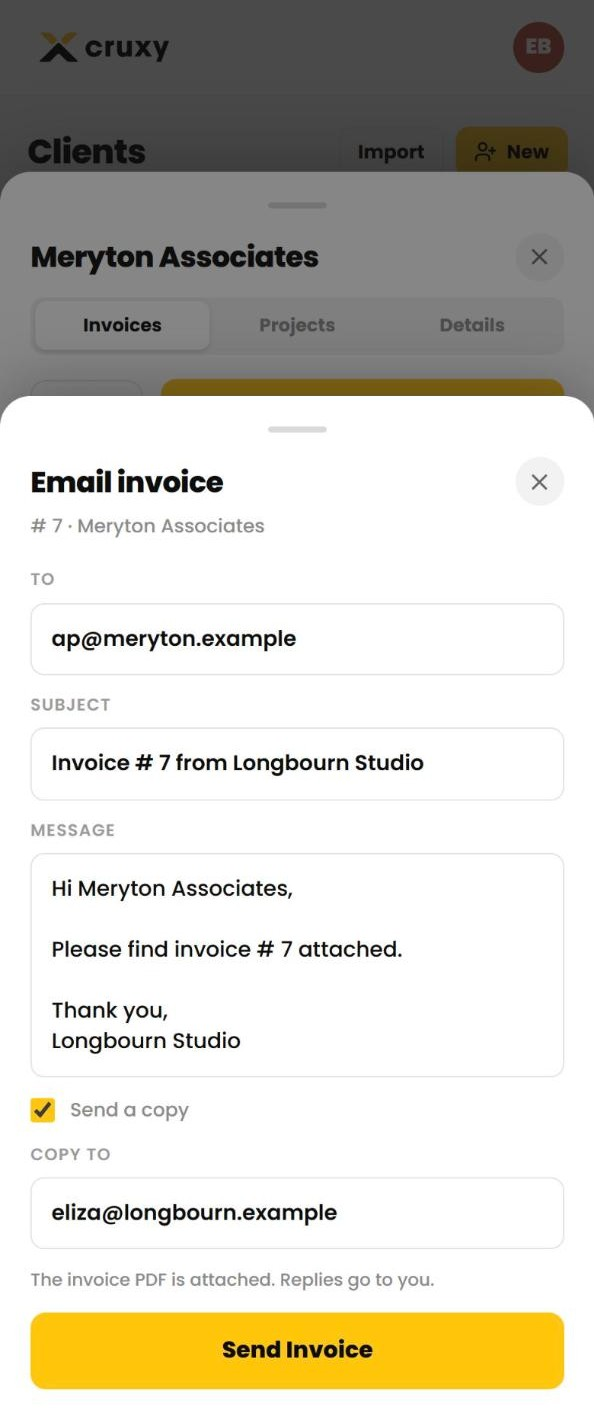
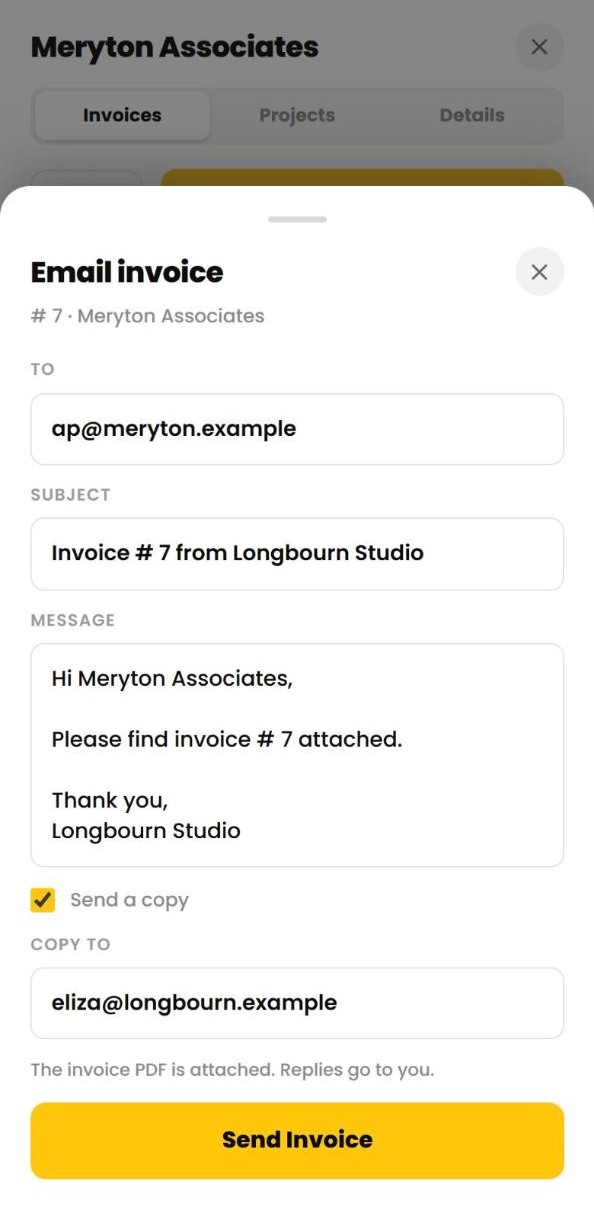
Invoices deep dive: modal-only shots, equal height, new headline
Claude-Session: https://claude.ai/code/session_01Qt5XacHTYuFQ2D38KkpYh8

diff --git a/css/style.css b/css/style.css
@@ -361,9 +361,8 @@ footer.site-footer { background: #0D0D0D; color: #fff; padding: 64px 24px 32px; 
 .deep-dive-points li::before { content: '✓'; position: absolute; left: 0; color: #FFC60B; font-weight: 700; }
 .deep-dive-points strong { color: #fff; font-weight: 700; }
 .deep-dive-shots { display: grid; grid-template-columns: repeat(3, 1fr); gap: 16px; align-items: start; }
-.dd-shot { width: 100%; height: auto; display: block; border-radius: 22px; box-shadow: 0 20px 44px rgba(0,0,0,0.55), 0 0 0 1px rgba(255,255,255,0.10); }
-.dd-shot-1 { margin-top: 56px; }
-.dd-shot-3 { margin-top: 28px; }
+.dd-shot-3 { box-shadow: 0 0 0 1px rgba(255,255,255,0.10); }
+.dd-shot { width: 100%; height: auto; display: block; border-radius: 22px; filter: drop-shadow(0 20px 36px rgba(0,0,0,0.55)); }
 @media (max-width: 900px) {
   .deep-dive { padding: 64px 24px; }
   .deep-dive-wrap { grid-template-columns: 1fr; gap: 40px; }
@@ -371,7 +370,5 @@ footer.site-footer { background: #0D0D0D; color: #fff; padding: 64px 24px 32px; 
 @media (max-width: 600px) {
   .deep-dive h2 { font-size: 1.75rem; }
   .deep-dive-shots { gap: 10px; }
-  .dd-shot { width: 100%; height: auto; display: block; border-radius: 22px; box-shadow: 0 20px 44px rgba(0,0,0,0.55), 0 0 0 1px rgba(255,255,255,0.10); }
-  .dd-shot-1 { margin-top: 64px; }
-  .dd-shot-3 { margin-top: 32px; }
-}
+  .dd-shot { width: 100%; height: auto; display: block; border-radius: 22px; filter: drop-shadow(0 20px 36px rgba(0,0,0,0.55)); }
+    }

diff --git a/index.html b/index.html
@@ -160,7 +160,7 @@
   <div class="wrap deep-dive-wrap">
     <div class="deep-dive-copy">
       <div class="section-eyebrow">Invoices</div>
-      <h2>From tracked time to paid, in a few taps.</h2>
+      <h2>Invoice your clients in minutes, not hours.</h2>
       <p class="deep-dive-lede">Pick a client and a period, and Cruxy builds the invoice from your unbilled time. Review it, send it, and mark it paid, all without leaving the app.</p>
       <ul class="deep-dive-points">
         <li><strong>Built from your time.</strong> Unbilled hours, fixed fees, and expenses roll into one invoice.</li>
@@ -170,8 +170,8 @@
       </ul>
     </div>
     <div class="deep-dive-shots">
-      <img class="dd-shot dd-shot-1" src="images/app/invoices-list.jpg" alt="A client's invoices, with paid and overdue statuses" loading="lazy">
-      <img class="dd-shot dd-shot-2" src="images/app/invoices-new.jpg" alt="Creating an invoice with tax and a total" loading="lazy">
+      <img class="dd-shot dd-shot-1" src="images/app/invoices-list.png" alt="A client's invoices, with paid and overdue statuses" loading="lazy">
+      <img class="dd-shot dd-shot-2" src="images/app/invoices-new.png" alt="Creating an invoice with tax and a total" loading="lazy">
       <img class="dd-shot dd-shot-3" src="images/app/invoices-email.jpg" alt="Emailing an invoice PDF to a client" loading="lazy">
     </div>
   </div>
